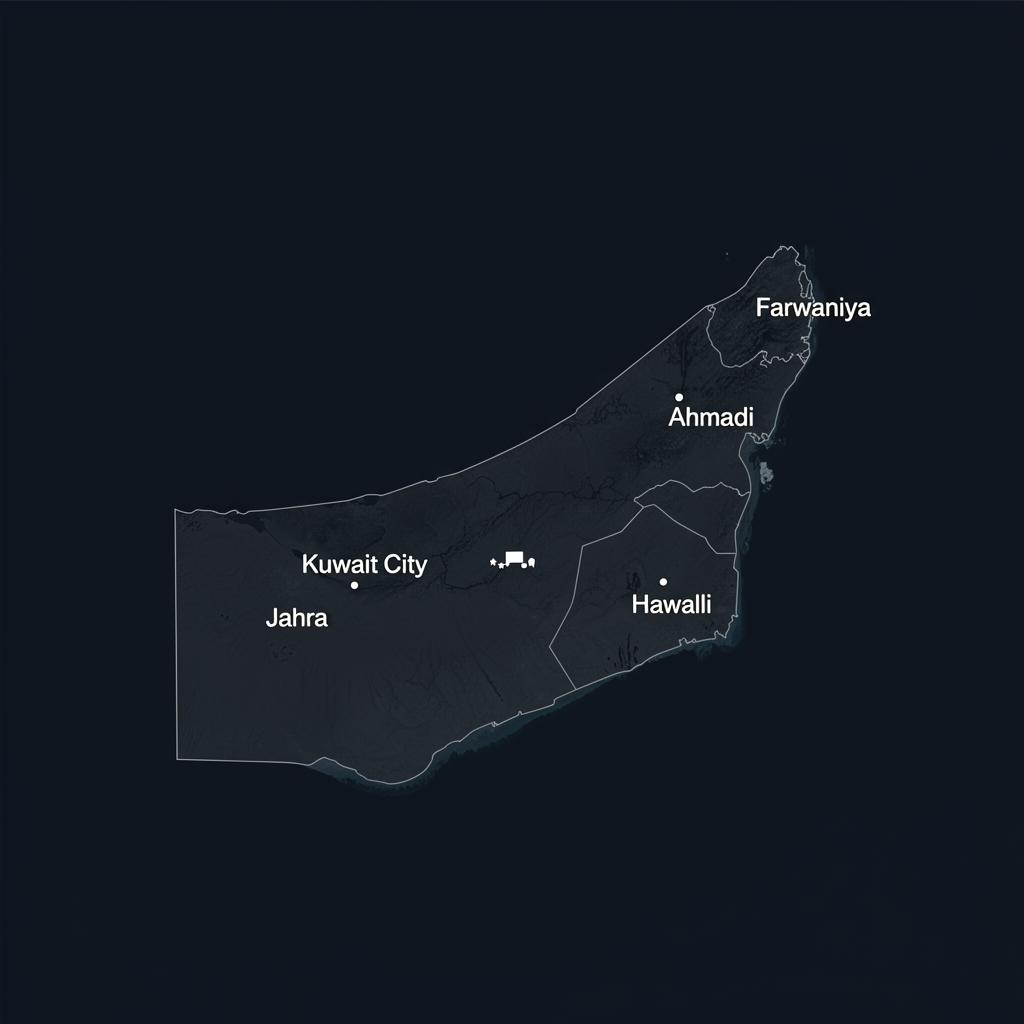
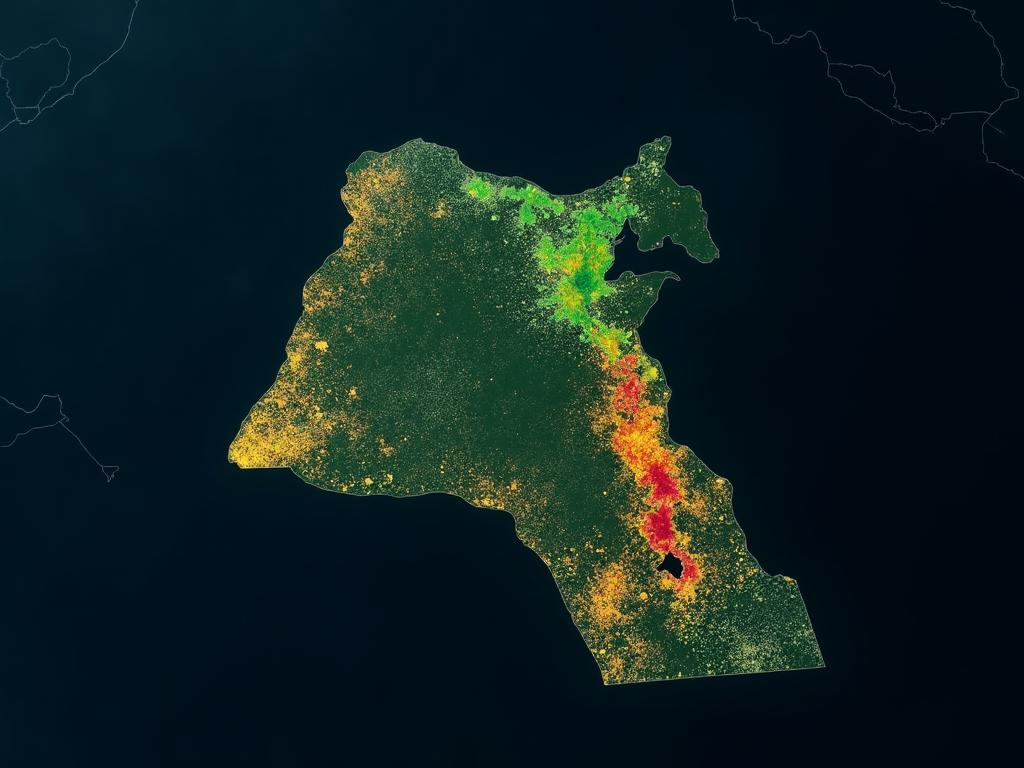
Reverted to commit db0cb69144b9bb55e1f3e579d02496547d561bde

diff --git a/src/components/dashboard/TrashChart.tsx b/src/components/dashboard/TrashChart.tsx
@@ -1,43 +1,29 @@
 import { AreaChart, Area, XAxis, YAxis, CartesianGrid, Tooltip, ResponsiveContainer } from "recharts";
 
 const data = [
-  { time: "06:00", trash: 15, tires: 3 },
-  { time: "08:00", trash: 32, tires: 8 },
-  { time: "10:00", trash: 45, tires: 15 },
-  { time: "12:00", trash: 72, tires: 28 },
-  { time: "14:00", trash: 58, tires: 22 },
-  { time: "16:00", trash: 65, tires: 35 },
-  { time: "18:00", trash: 48, tires: 18 },
-  { time: "20:00", trash: 35, tires: 12 },
-  { time: "22:00", trash: 20, tires: 5 },
+  { time: "06:00", score: 15 },
+  { time: "08:00", score: 32 },
+  { time: "10:00", score: 45 },
+  { time: "12:00", score: 72 },
+  { time: "14:00", score: 58 },
+  { time: "16:00", score: 65 },
+  { time: "18:00", score: 48 },
+  { time: "20:00", score: 35 },
+  { time: "22:00", score: 20 },
 ];
 
 const TrashChart = () => {
   return (
-    <div className="rounded-lg bg-card border border-border p-5 h-full flex flex-col">
-      <h2 className="text-lg font-semibold text-foreground mb-1">Pollution Timeline</h2>
-      <p className="text-xs text-muted-foreground mb-4">Trash & tire pollution index across all zones today</p>
-      <div className="flex items-center gap-4 text-xs mb-3">
-        <div className="flex items-center gap-1.5">
-          <div className="w-2.5 h-2.5 rounded-full bg-primary" />
-          <span className="text-muted-foreground">Trash Score</span>
-        </div>
-        <div className="flex items-center gap-1.5">
-          <div className="w-2.5 h-2.5 rounded-full bg-destructive" />
-          <span className="text-muted-foreground">Tire Pollution</span>
-        </div>
-      </div>
-      <div className="flex-1 min-h-[200px]">
+    <div className="rounded-lg bg-card border border-border p-5">
+      <h2 className="text-lg font-semibold text-foreground mb-1">Trash Score Timeline</h2>
+      <p className="text-xs text-muted-foreground mb-4">Average trash index across all zones today</p>
+      <div className="h-[220px]">
         <ResponsiveContainer width="100%" height="100%">
           <AreaChart data={data}>
             <defs>
               <linearGradient id="trashGradient" x1="0" y1="0" x2="0" y2="1">
                 <stop offset="0%" stopColor="hsl(165, 80%, 45%)" stopOpacity={0.3} />
                 <stop offset="100%" stopColor="hsl(165, 80%, 45%)" stopOpacity={0} />
-              </linearGradient>
-              <linearGradient id="tireGradient" x1="0" y1="0" x2="0" y2="1">
-                <stop offset="0%" stopColor="hsl(0, 72%, 55%)" stopOpacity={0.3} />
-                <stop offset="100%" stopColor="hsl(0, 72%, 55%)" stopOpacity={0} />
               </linearGradient>
             </defs>
             <CartesianGrid strokeDasharray="3 3" stroke="hsl(220, 16%, 18%)" />
@@ -54,17 +40,10 @@ const TrashChart = () => {
             />
             <Area
               type="monotone"
-              dataKey="trash"
+              dataKey="score"
               stroke="hsl(165, 80%, 45%)"
               strokeWidth={2}
               fill="url(#trashGradient)"
-            />
-            <Area
-              type="monotone"
-              dataKey="tires"
-              stroke="hsl(0, 72%, 55%)"
-              strokeWidth={2}
-              fill="url(#tireGradient)"
             />
           </AreaChart>
         </ResponsiveContainer>

diff --git a/src/components/dashboard/MapPanel.tsx b/src/components/dashboard/MapPanel.tsx
@@ -1,11 +1,11 @@
 import kuwaitMap from "@/assets/kuwait-map.png";
 
 const zones = [
-  { name: "Kuwait City", status: "high", x: "38%", y: "52%" },
-  { name: "Hawalli", status: "medium", x: "62%", y: "62%" },
-  { name: "Jahra", status: "low", x: "30%", y: "58%" },
-  { name: "Ahmadi", status: "high", x: "58%", y: "38%" },
-  { name: "Farwaniya", status: "medium", x: "68%", y: "25%" },
+  { name: "Kuwait City", status: "high", x: "62%", y: "42%" },
+  { name: "Hawalli", status: "medium", x: "65%", y: "50%" },
+  { name: "Jahra", status: "low", x: "38%", y: "30%" },
+  { name: "Ahmadi", status: "high", x: "58%", y: "68%" },
+  { name: "Farwaniya", status: "medium", x: "52%", y: "40%" },
 ];
 
 const statusColors: Record<string, string> = {
@@ -25,8 +25,8 @@ const MapPanel = () => {
     <div className="rounded-lg bg-card border border-border p-5 flex flex-col h-full">
       <div className="flex items-center justify-between mb-4">
         <div>
-        <h2 className="text-lg font-semibold text-foreground">Live Pollution Density Map</h2>
-          <p className="text-xs text-muted-foreground">Trash & tire pollution monitoring across Kuwait</p>
+          <h2 className="text-lg font-semibold text-foreground">Live Trash Density Map</h2>
+          <p className="text-xs text-muted-foreground">Real-time monitoring across Kuwait</p>
         </div>
         <div className="flex items-center gap-4 text-xs">
           {[

diff --git a/src/pages/Index.tsx b/src/pages/Index.tsx
@@ -1,4 +1,4 @@
-import { Trash2, Users, MapPin, AlertTriangle, CircleDot } from "lucide-react";
+import { Trash2, Users, MapPin, AlertTriangle } from "lucide-react";
 import DashboardHeader from "@/components/dashboard/DashboardHeader";
 import StatsCard from "@/components/dashboard/StatsCard";
 import MapPanel from "@/components/dashboard/MapPanel";
@@ -12,7 +12,7 @@ const Index = () => {
         <DashboardHeader />
 
         {/* Stats Row */}
-        <div className="grid grid-cols-2 lg:grid-cols-5 gap-4 mb-6">
+        <div className="grid grid-cols-2 lg:grid-cols-4 gap-4 mb-6">
           <StatsCard
             title="Trash Score"
             value="47.2"
@@ -20,14 +20,6 @@ const Index = () => {
             icon={<Trash2 className="w-4 h-4" />}
             trend={{ value: -8.3, label: "vs yesterday" }}
             variant="warning"
-          />
-          <StatsCard
-            title="Tire Pollution"
-            value="312"
-            subtitle="Dumped tires detected"
-            icon={<CircleDot className="w-4 h-4" />}
-            trend={{ value: 15.7, label: "vs yesterday" }}
-            variant="danger"
           />
           <StatsCard
             title="People Detected"

diff --git a/src/components/dashboard/DashboardHeader.tsx b/src/components/dashboard/DashboardHeader.tsx
@@ -13,7 +13,7 @@ const DashboardHeader = () => {
         </div>
         <div>
           <h1 className="text-xl font-bold tracking-tight text-foreground">EcoWatch Kuwait</h1>
-          <p className="text-xs text-muted-foreground">Smart Trash & Tire Pollution Monitoring</p>
+          <p className="text-xs text-muted-foreground">Smart Trash Monitoring System</p>
         </div>
       </div>
       <div className="flex items-center gap-4">
